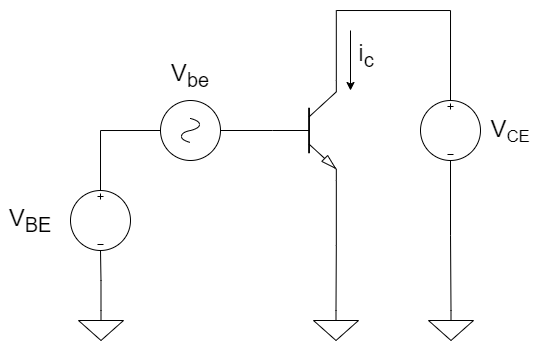
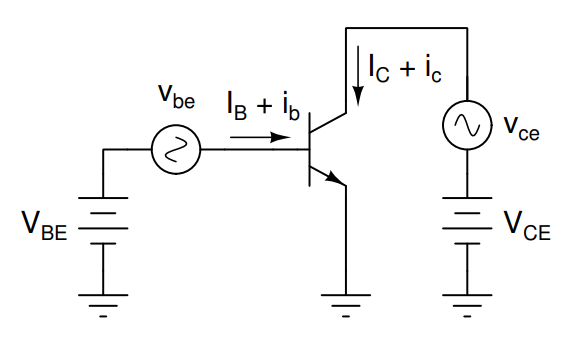
Avanzando con el modelo de pequeña señal del MOSFET en dispo

diff --git a/dispo/Transistor MOSFET/Modelo de pequeña señal para Transistor de efecto de campo metal-óxido-semiconductor (MOSFET).md b/dispo/Transistor MOSFET/Modelo de pequeña señal para Transistor de efecto de campo metal-óxido-semiconductor (MOSFET).md
@@ -1,0 +1,26 @@
+---
+dia: 2023-11-16
+materia: dispo
+capitulo: 6
+---
+### Definición
+---
+El [[Transistor de efecto de campo metal-óxido-semiconductor (MOSFET)|MOSFET]] es un dispositivo [[Función R-lineal|alineal]] por lo que no cumple el [[Principio de superposición]]. Entonces teniendo el [[Circuito eléctrico|circuito]]
+
+![[Circuito de pequeña señal del Transistor de efecto de campo metal-óxido-semiconductor (MOSFET).png]]
+
+Por lo tanto vamos a aproximarla usando el [[Serie de Taylor#Polinomio de Taylor|polinomio de Taylor]] de primer orden $$ \begin{align}
+	i_D(V_{GS} + v_{gs}, V_{DS} + v_{ds}, V_{BS} + v_{bs}) \simeq& ~ I_DQ(V_{GS}, V_{DS}, V_{BS}) \\
+	& ~ \frac{\partial i_D}{\partial v_{GS}} \biggm|_{Q} v_{gs} \\ 
+	& ~ \frac{\partial i_D}{\partial v_{DS}} \biggm|_{Q} v_{ds} \\ 
+	& ~ \frac{\partial i_D}{\partial v_{BS}} \biggm|_{Q} v_{bs} \\  
+\end{align} $$ donde $Q \equiv$  punto de polarización  $(V_{GS}, V_{DS}, V_{BS})$.
+
+#### Modelo para bajas frecuencias
+---
+Corriente $i_d$ de pequeña señal $$ i_d \simeq g_m ~ v_{gs} + g_0 ~ v_{ds} + g_{mb} ~ v_{bs} $$
+Definimos: 
+* $g_m \equiv$ [[Transconductancia|transconductancia]] $[S]$
+* $g_0 \equiv$ [[Conductancia del drain|salida o conductancia del drain]] $[S]$
+* $g_{mb} \equiv$ [[Transconductancia del backgate|transconductancia del backgate]] $[S]$
+

diff --git a/dispo/Transistor bipolar de juntura/Transconductancia.md b/dispo/Transistor bipolar de juntura/Transconductancia.md
@@ -7,5 +7,5 @@ capitulo: 4
 ---
 Dada una [[Corriente eléctrica|señal]] pequeña, se define la transconductancia como $$ g_m \simeq \frac{\partial i_C}{\partial v_{BE}} \biggm|_{Q} $$ donde $Q \equiv$  punto de polarización  $(V_{BE}, V_{CE})$.
 
-Calculándolo en [[Modo activo directo (MAD) del transistor bipolar de juntura (TBJ)|MAD]] y un [[Transistor bipolar de juntura (TBJ)|TBJ]] de tipo NPN, tenemos que $$ i_C = I_S \exp \left( \frac{v_{BE}}{V_{th}} \right) $$ entonces $$ g_m = \frac{\partial i_C (v_{BE})}{\partial v_{BE}} \biggm|_{Q} = \frac{I_S}{V_{th}} \exp \left( \frac{V_{BE}}{V_{th}} \right) $$ por lo que podemos reescribir como $$ g_m = \frac{I_C(V_{BE})}{V_{th}} $$
-Para PNP $$ g_m = - \frac{I_C(V_{BE})}{V_{th}} $$
+Calculándolo en [[Modo activo directo (MAD) del transistor bipolar de juntura (TBJ)|MAD]] y un [[Transistor bipolar de juntura (TBJ)|TBJ]] de tipo [[Transistor bipolar de juntura (TBJ)#NPN|NPN]], tenemos que $$ i_C = I_S \exp \left( \frac{v_{BE}}{V_{th}} \right) $$ entonces $$ g_m = \frac{\partial i_C (v_{BE})}{\partial v_{BE}} \biggm|_{Q} = \frac{I_S}{V_{th}} \exp \left( \frac{V_{BE}}{V_{th}} \right) $$ por lo que podemos reescribir como $$ g_m = \frac{I_C(V_{BE})}{V_{th}} $$
+Para [[Transistor bipolar de juntura (TBJ)#PNP|PNP]] $$ g_m = - \frac{I_C(V_{BE})}{V_{th}} $$

diff --git a/dispo/Transistor bipolar de juntura/Modelo de pequeña señal para transistor bipolar de juntura (TBJ).md b/dispo/Transistor bipolar de juntura/Modelo de pequeña señal para transistor bipolar de juntura (TBJ).md
@@ -9,7 +9,14 @@ El [[Transistor bipolar de juntura (TBJ)|TBJ]] es un dispositivo [[Función R-li
 
 ![[Circuito de pequeña señal del transistor bipolar de juntura (TBJ).png]]
 
-Por lo tanto vamos a aproximarla usando el [[Serie de Taylor#Polinomio de Taylor|polinomio de Taylor]] de primer orden $$ i_C(V_{BE} + v_{be}) \simeq i_C(V_{BE}) + \frac{\partial i_C(v_{BE})}{\partial v_{BE}} \biggm|_{Q} \cdot (v_{BE} - V_{BE}) $$ donde $Q \equiv$ punto de polarización $V_{BE}$
+Por lo tanto vamos a aproximarla usando el [[Serie de Taylor#Polinomio de Taylor|polinomio de Taylor]] de primer orden $$
+i_C(V_{BE} + v_{be}, V_{CE} + v_{ce}) \simeq ~ I_C(V_{BE}, V_{CE})
++ \frac{\partial i_C}{\partial v_{BE}} \biggm|_{Q} v_{be} 
++ \frac{\partial i_C}{\partial v_{CE}} \biggm|_{Q} v_{ce} $$ $$
+i_B(V_{BE} + v_{be}, V_{CE} + v_{ce}) \simeq ~ I_B(V_{BE}, V_{CE})
++ \frac{\partial i_B}{\partial v_{BE}} \biggm|_{Q} v_{be} 
++ \frac{\partial i_B}{\partial v_{BC}} \biggm|_{Q} v_{bc} $$
+donde $Q \equiv$  punto de polarización  $(V_{BE}, V_{CE})$.
 #### Evaluando para [[Modo activo directo (MAD) del transistor bipolar de juntura (TBJ)|MAD]]
 ---
 $$ \begin{align}
